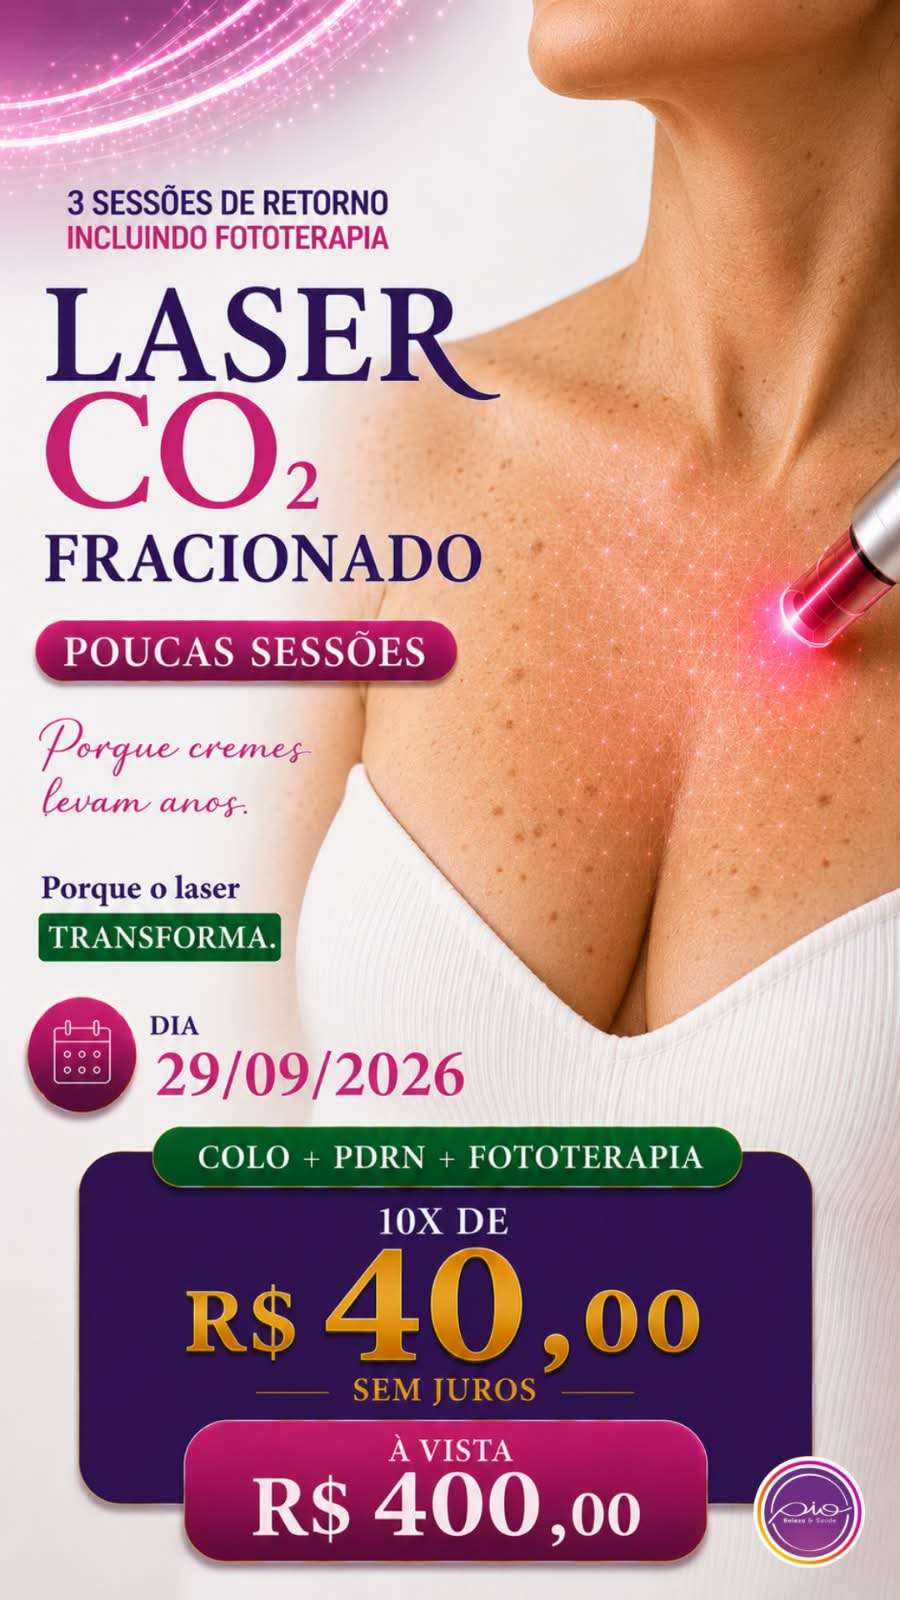
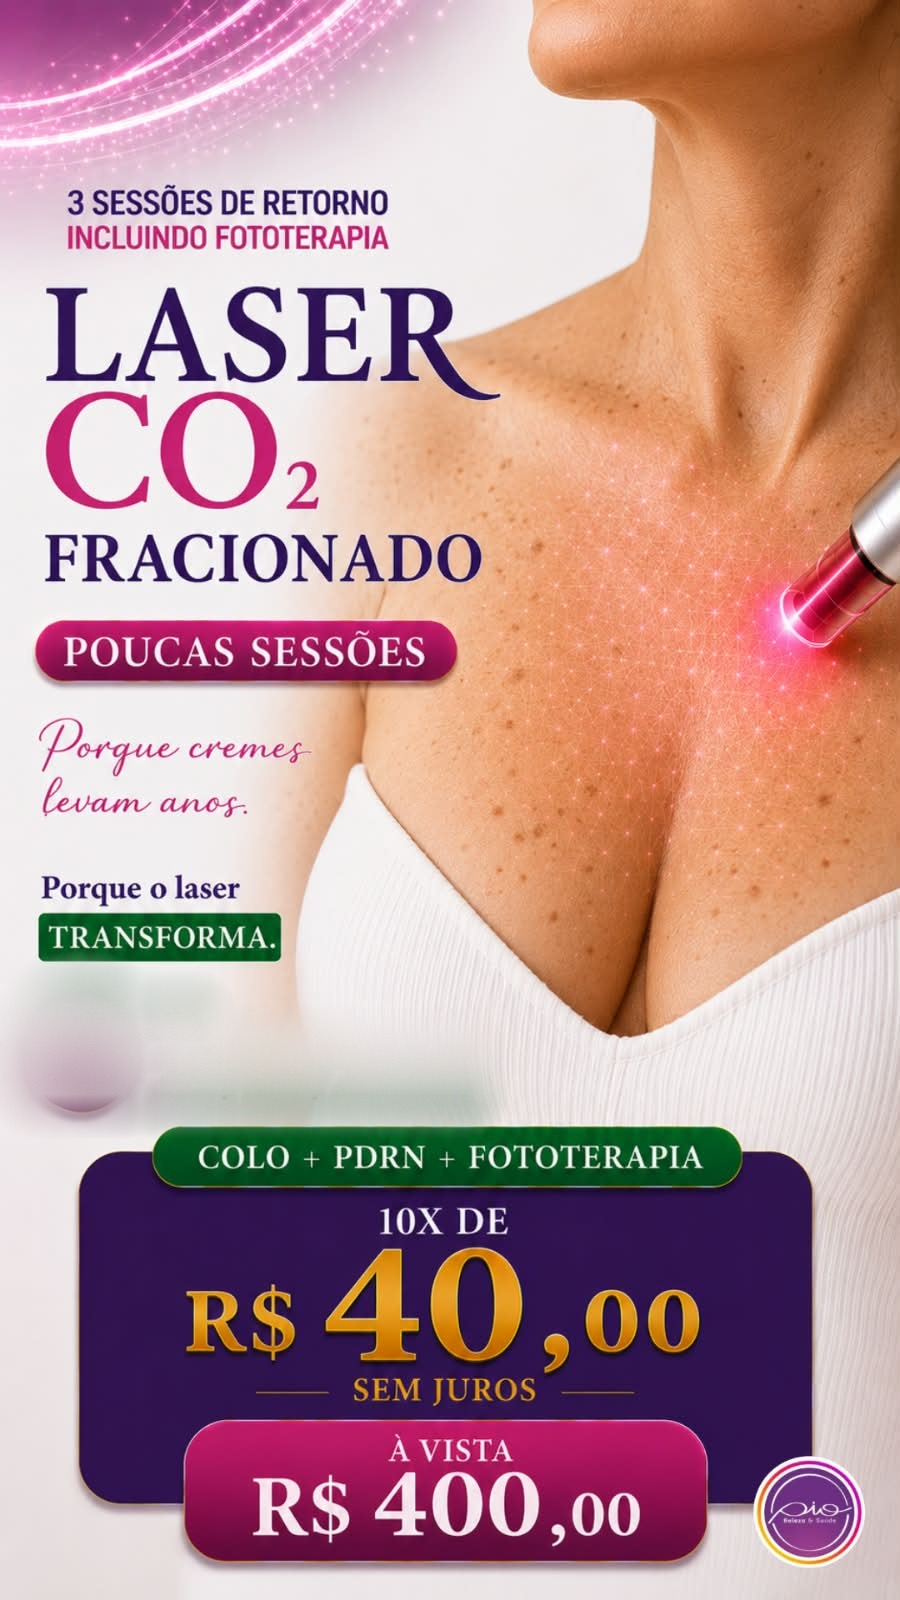
v29: apaga a data das pecas de laser e troca o video em destaque
As 8 pecas de laser CO2 (6 fotos de regiao + a de estrias + a tabela de
valores) traziam a data "29/09/2026" impressa. Removida por edicao de
imagem: deteccao de cor do selo/texto e preenchimento do fundo a partir
da propria imagem (sem arquivo de origem em camadas, entao nao da pra so
apagar uma camada de texto).

- 6 fotos (rosto, papada, palpebras, pescoco, colo, maos): o selo "DIA
  29/09/2026" foi apagado e a area preenchida com o gradiente do fundo.
- estrias.jpg: selo "DIA 29/09/2026 TERCA-FEIRA" (texto branco + icone)
  apagado sobre o fundo com textura.
- valores-regioes.jpg: banner "APLICACAO: 29/09/2026 (TERCA-FEIRA)"
  removido por inteiro, a area virou espaco em branco (o fundo ali ja
  era branco liso).

Tambem trocado qual video abre em destaque na secao "Na pratica": era
Protocolo Corpo Leve e Definido, agora e Liberacao Miofascial — só a
ordem dos dois primeiros itens em PIO_VIDEOS foi invertida, no script.js.

Changed region(s): [[0.0, 0.5938, 0.56, 0.7188]]

diff --git a/script.js b/script.js
@@ -338,14 +338,6 @@ var PIO_CAMPANHAS = {
    ========================================================================= */
 var PIO_VIDEOS = {
   itens: [
-    {arq:'video-protocolo-corporal-completo', cat:'Corporal', nome:'Protocolo Corpo Leve e Definido',
-     texto:'Nove sessões desenhadas para reduzir medidas e redesenhar o contorno do corpo. As enzimas agem sobre a gordura localizada, a lipocavitação potencializa o resultado e o Sculpe Detox fecha o protocolo com modelagem abdominal.',
-     itens:['3 sessões de enzimas', '3 sessões de lipocavitação', '3 sessões de Sculpe Detox com modelagem abdominal'],
-     condicao:'9 sessões no total', preco:'790', centavos:'00', dur:'0:36',
-     insta:'https://www.instagram.com/reel/DaYkho-sbn6/',
-     wa:'Olá! Vim pelo site e tenho interesse no Protocolo Corpo Leve e Definido (9 sessões: 3 de enzimas, 3 de lipocavitação e 3 de Sculpe Detox com modelagem abdominal, R$ 790,00). Quero agendar minha avaliação.',
-     alt:'Peça da campanha do protocolo corporal completo da Clínica PIO, com as nove sessões e o valor'},
-
     {arq:'video-liberacao-miofascial', cat:'Massoterapia', nome:'Liberação Miofascial',
      texto:'A tensão muscular se instala devagar e um dia começa a limitar o movimento. A liberação miofascial desativa os pontos de tensão, devolve mobilidade e alivia dores crônicas — inclusive em casos de bruxismo, cefaleia e fascite plantar.',
      itens:['Alivia dores musculares e crônicas', 'Melhora a mobilidade no dia a dia', 'Atendimento personalizado, do começo ao fim'],
@@ -353,6 +345,14 @@ var PIO_VIDEOS = {
      insta:'https://www.instagram.com/reel/DbOf_NGs357/',
      wa:'Olá! Vim pelo site e tenho interesse na Liberação Miofascial (sessão de 1 hora, R$ 130,00). Quero agendar.',
      alt:'Peça da Clínica PIO sobre a liberação miofascial, com os benefícios e o valor da sessão'},
+
+    {arq:'video-protocolo-corporal-completo', cat:'Corporal', nome:'Protocolo Corpo Leve e Definido',
+     texto:'Nove sessões desenhadas para reduzir medidas e redesenhar o contorno do corpo. As enzimas agem sobre a gordura localizada, a lipocavitação potencializa o resultado e o Sculpe Detox fecha o protocolo com modelagem abdominal.',
+     itens:['3 sessões de enzimas', '3 sessões de lipocavitação', '3 sessões de Sculpe Detox com modelagem abdominal'],
+     condicao:'9 sessões no total', preco:'790', centavos:'00', dur:'0:36',
+     insta:'https://www.instagram.com/reel/DaYkho-sbn6/',
+     wa:'Olá! Vim pelo site e tenho interesse no Protocolo Corpo Leve e Definido (9 sessões: 3 de enzimas, 3 de lipocavitação e 3 de Sculpe Detox com modelagem abdominal, R$ 790,00). Quero agendar minha avaliação.',
+     alt:'Peça da campanha do protocolo corporal completo da Clínica PIO, com as nove sessões e o valor'},
 
     {arq:'video-pedras-quentes', cat:'Relaxamento', nome:'Massagem com Pedras Quentes',
      texto:'O calor do basalto sobre o corpo abre a circulação, solta a musculatura e desmancha a tensão acumulada. Uma sessão para desacelerar de verdade e cuidar do corpo e da mente ao mesmo tempo.',

diff --git a/README.md b/README.md
@@ -170,8 +170,16 @@ card de tratamento: acrescente a chave em `PIO_CAMPANHAS`, ponha um
 `<div class="camp-bloco" id="...">` dentro do `post-content` do card e chame
 `montarDestaques('chave', 'id')` junto das outras chamadas. Para tirar uma
 campanha do ar basta apagar a linha dela; para trocar a peça, substitua os três
-arquivos e ajuste `w`/`h`. **As peças do laser trazem impressa a data
-29/09/2026**: quando a campanha passar, troque as imagens ou esvazie as listas.
+arquivos e ajuste `w`/`h`.
+
+**As 8 peças do laser vinham com a data 29/09/2026 impressa** (o selo "DIA
+29/09/2026" nas 6 fotos de região + "TERÇA-FEIRA" na de estrias + o banner
+"APLICAÇÃO: 29/09/2026" na tabela de valores). Essa data foi **apagada por
+edição de imagem** (detecção de cor + preenchimento do fundo, sem Photoshop
+nem arquivo de origem em camadas) porque a campanha ficaria com prazo vencido.
+Se um dia quiser imprimir uma data nova nessas peças, é preciso reabrir o
+design original (Canva/PSD) — a versão em `images/campanhas/` já não tem
+camadas, só o JPG final.
 
 `index.html`, `styles.css`, `script.js` e a pasta `images/` precisam ficar **juntos, na
 mesma pasta** — o HTML chama o CSS e o JS por caminho relativo (`href="styles.css"`,
@@ -283,14 +291,19 @@ Cada vídeo precisa de **três arquivos** em `images/`, com o mesmo nome:
 O caminho é sempre `images/` + o campo `arq` + a extensão, sem nenhum pedaço
 escondido no meio — se o arquivo existir com esse nome, o vídeo toca.
 
-Os quatro que estão no ar:
+Os quatro que estão no ar, **na ordem em que aparecem** (o primeiro da lista é
+o que abre sozinho, em destaque, quando a seção carrega):
 
 | Arquivo (`arq`) | Tratamento | Condição |
 |---|---|---|
-| `video-protocolo-corporal-completo` | Protocolo Corpo Leve e Definido | 9 sessões · R$ 790,00 |
 | `video-liberacao-miofascial` | Liberação Miofascial | sessão de 1h · R$ 130,00 |
+| `video-protocolo-corporal-completo` | Protocolo Corpo Leve e Definido | 9 sessões · R$ 790,00 |
 | `video-pedras-quentes` | Massagem com Pedras Quentes | promocional · R$ 130,00 |
 | `video-relaxar-modelagem-abdominal` | Bastidores da massagem | ganha modelagem abdominal |
+
+**Para trocar qual vídeo abre em destaque**, basta mudar a ordem dos blocos
+dentro de `PIO_VIDEOS.itens` — o primeiro do array é sempre o primeiro a
+tocar (`trocar(0)`, no fim do módulo).
 
 Os textos, valores, links e mensagens de WhatsApp ficam num objeto só,
 `PIO_VIDEOS`, no começo do `script.js`, logo abaixo de `PIO_CAMPANHAS` — tudo
